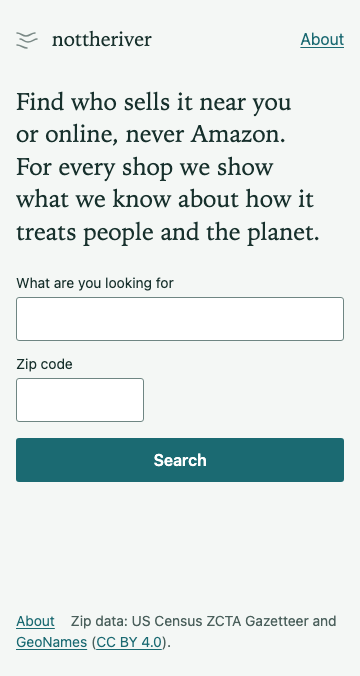
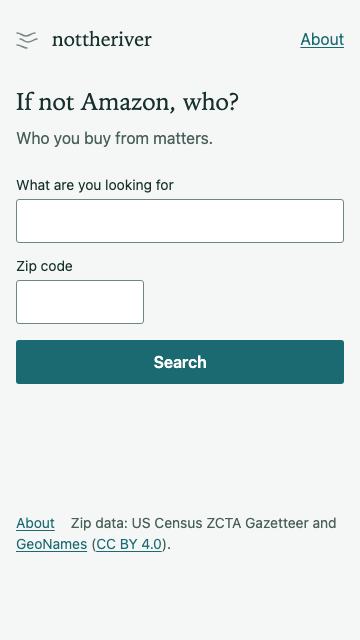
feat(site): change the headline to "If not Amazon, who?" with a short line under it
The headline on the search page and the About page is now "If not Amazon,
who?". On the search page a line under it reads "Who you buy from
matters." and is hidden with the headline once a search starts.

The pair replaces the 2026-11-15 sentence. Before a search the page says
nothing about people and the planet; each result still carries its "People
and planet" line.

docs/evidence/landing.png, landing-360.png and about.png are regenerated.

Claude-Session: https://claude.ai/code/session_01CkQcP2ZUvVN6X4vgfbAERQ

diff --git a/tests/e2e/smoke.spec.ts b/tests/e2e/smoke.spec.ts
@@ -42,6 +42,7 @@ test('a search renders ranked, explained, Amazon-free results under the CSP', as
   await page.goto('/');
   await expect(page.locator('meta[name=referrer][content=no-referrer]')).toHaveCount(1);
   await expect(page.locator('meta[http-equiv=Content-Security-Policy]')).toHaveAttribute('content', /form-action 'none'/);
+  await expect(page.locator('.mission-note')).toBeVisible();
 
   await page.getByLabel('What are you looking for').fill('cast iron skillet');
   await page.getByLabel('Zip code').fill(ZIP);
@@ -62,6 +63,8 @@ test('a search renders ranked, explained, Amazon-free results under the CSP', as
 
   // Once a search starts the headline is clipped to a pixel, so the results get its room.
   expect((await box(page.locator('[data-mission]'))).height).toBeLessThanOrEqual(1);
+  // The line under the headline goes with it.
+  await expect(page.locator('.mission-note')).toBeHidden();
   // The found count leads to the Online section.
   await expect(page.locator('[data-found] a')).toHaveAttribute('href', '#online-heading');
   // The count sits at the top of the results: under the sort and filter row, above the lists.

diff --git a/src/styles.css b/src/styles.css
@@ -98,13 +98,16 @@ a:not([href]) { color: inherit; text-decoration: none; } /* doc names stay plain
   font-weight: 400;
   font-size: var(--text-xl);
   line-height: var(--leading-display);
-  margin: var(--space-6) 0 var(--space-5);
+  margin: var(--space-6) 0 var(--space-2);
   text-wrap: balance;
 }
 @media (min-width: 48rem) { .mission { font-size: var(--text-2xl); } }
+/* Set like the note under a section heading. */
+.mission-note { color: var(--ink-muted); margin: 0 0 var(--space-5); text-wrap: balance; }
 /* Once a search starts the headline gives its room to the results. It is clipped, not removed:
    it is the page's only h1. */
 .searched .mission { position: absolute; width: 1px; height: 1px; margin: 0; overflow: hidden; clip-path: inset(50%); white-space: nowrap; }
+.searched .mission-note { display: none; }
 .searched .search { margin-top: var(--space-5); }
 
 .search { display: grid; gap: var(--space-3); }

diff --git a/src/main.test.ts b/src/main.test.ts
@@ -93,6 +93,10 @@ describe('search page', () => {
     for (const a of document.querySelectorAll('a[href]')) expect(a.getAttribute('href')!.startsWith('/')).toBe(false);
   });
 
+  it('gives the reason to search in a line under the headline', () => {
+    expect($('[data-mission] + .mission-note').textContent).toBe('Who you buy from matters.');
+  });
+
   it('never puts the zip in the URL, storage, or the request (HR3)', async () => {
     const zip = '60614';
     const event = submit('cast iron skillet', zip);

diff --git a/about.html b/about.html
@@ -22,7 +22,7 @@
 </header>
 
 <main class="page prose">
-<h1>Find who sells it near you or online, never Amazon. For every shop we show what we know about how it treats people and the planet.</h1>
+<h1>If not Amazon, who?</h1>
 <p>Type a product and a US zip code. You get shops near you and online retailers that sell it or something close, each ranked with its reasons shown. There are no accounts, cookies, or analytics.</p>
 
 <h2 id="amazon">Why Amazon never appears</h2>

diff --git a/index.html b/index.html
@@ -22,7 +22,8 @@
 </header>
 
 <main class="page">
-<h1 class="mission" data-mission>Find who sells it near you or online, never Amazon. For every shop we show what we know about how it treats people and the planet.</h1>
+<h1 class="mission" data-mission>If not Amazon, who?</h1>
+<p class="mission-note">Who you buy from matters.</p>
 
 <form id="search" class="search" method="post" action="#" novalidate>
 <div class="field field-product">

diff --git a/src/config.ts b/src/config.ts
@@ -3,8 +3,7 @@
 
 export const siteName = 'nottheriver';
 
-export const tagline =
-  'Find who sells it near you or online, never Amazon. For every shop we show what we know about how it treats people and the planet.';
+export const tagline = 'If not Amazon, who?';
 
 // Operator-entered, so a trailing slash must not turn /search into //search.
 export const workerUrl: string = (import.meta.env.VITE_WORKER_URL ?? '').replace(/\/+$/, '');

diff --git a/docs/STATUS.md b/docs/STATUS.md
@@ -43,7 +43,7 @@ As of 2026-10-01. Pushed to `main`; the Worker is deployed at `e573572` with the
 | Wireframes from a blank page (2026-11-11) | [wireframes/](wireframes/README.md): three low-fidelity designs by agents that never saw the current site, working only from [wireframes/inventory.md](wireframes/inventory.md) (needs, information, functions and rules, no screens; passed three leak checks). WF1 orders the visit as a sequence of six steps, WF2 hangs everything on a drawing of the visitor's area, WF3 presents the answer as sourced statements. Each has a `wireframe.html` at 360 px and 1280 px, the designer's reasons, a coverage table and an independent check with one fix round (24, 21 and 17 gaps found; 22, 21 and 13 fixed or addressed, the rest in part). Not rendered in a browser; fixes not checked a second time. Documentation only: nothing in `src/` changed |
 | Ethics as a data problem (2026-11-11) | [ethics-data-strategies.md](ethics-data-strategies.md): the operator's answer to the headline rewrite (VQ3) was to keep ethics in the product and treat the gap as a data problem. Eight agents (five Sonnet, one Opus, two Fable) read the operator's eight starting points, hunted datasets and brainstormed blind to each other; a fresh review raised 27 findings, all applied. Measured on saved searches ([evidence/ethics-data/shop-domains.tsv](evidence/ethics-data/shop-domains.tsv)): 235 of 2,182 results (11%) are off the default scores, 166 of them from findings on three chains and 69 from certifications on five websites. Likely finding: data exists for national chains (grades need the publisher's permission, federal records need upkeep), partly for brands, and not yet for small local shops. 13 strategies (ES1 to ES12, with ES11 in two parts), a four-step sequence starting with an explicit "not checked" line on every shop, six headline wordings that keep ethics in the line. Nothing built; every hour figure is an estimate; reuse terms were read through a summarizing tool and need the operator's check |
 | Blocked pages read (2026-11-15) | The 58 pages the ethics report could not read, tried again within the operator's limits (crawler rules followed, no stealth tool, proxy, CAPTCHA solving or login). By the lead agent's count about 13 questions are answered and about 16 partly; 13 are not answerable today, 6 were terms questions skipped under the data stance ruling, 4 are held unread, 6 are gone, behind a login or unmeasured. Results are in the last column of [section 10](ethics-data-strategies.md#10-pages-the-owner-needs-to-open) and in [evidence/ethics-data/blocked-pages/](evidence/ethics-data/blocked-pages/README.md). Useful to the build: look-up links that carry a shop's name work on Violation Tracker, Good On You, Good Shopping Guide and B Corp (one or two names tested each); Alter Eco and Lake Champlain Chocolates are B Corps; Form 5500 codes mark companies with an employee stock ownership plan; GreenChill certifies single stores (Target 78, Costco 5 among the most-seen shops). New script: `research/fetch-page.mjs`. Each answer rests on one fetch; two departures from the limits are recorded in the evidence README |
-| Record line and headline (2026-11-15) | Step 1 of the ethics sequence, in part (ES1 in [ethics-data-strategies.md](ethics-data-strategies.md#5-strategies)). A result with no scoring certification and no finding shows "People and planet: unknown" (a chain badge or a membership badge that never scores does not count); a line under the weights says how many shown results have a record and what unknown means; "Why this rank" says "Unknown" where it said "Nothing found"; `about.html` says what unknown means. The headline on both pages is now "Find who sells it near you or online, never Amazon. For every shop we show what we know about how it treats people and the planet." Checks: 896 unit tests, lint and typecheck, and the 3 end-to-end tests (run locally with a cached Chromium build, not the pinned one). In the newest saved searches about 87% of results hold no certification or finding, so most rows read "unknown". Not built: the look-up links (ES3), which wait on the owner trying each link pattern on 20 shops |
+| Record line and headline (2026-11-15) | Step 1 of the ethics sequence, in part (ES1 in [ethics-data-strategies.md](ethics-data-strategies.md#5-strategies)). A result with no scoring certification and no finding shows "People and planet: unknown" (a chain badge or a membership badge that never scores does not count); a line under the weights says how many shown results have a record and what unknown means; "Why this rank" says "Unknown" where it said "Nothing found"; `about.html` says what unknown means. The headline on both pages became "Find who sells it near you or online, never Amazon. For every shop we show what we know about how it treats people and the planet." It was replaced on 2026-11-17 (under "Decisions made by the operator"). Checks: 896 unit tests, lint and typecheck, and the 3 end-to-end tests (run locally with a cached Chromium build, not the pinned one). In the newest saved searches about 87% of results hold no certification or finding, so most rows read "unknown". Not built: the look-up links (ES3), which wait on the owner trying each link pattern on 20 shops |
 | Path forward (2026-11-15) | [path-forward.md](path-forward.md): one recommended path from a Fable agent that read the repo and made no web requests. Become a record book of the companies seen most, with product search as one way into it; first step a fixed public-record check on the ten most-seen chains (395 of 2,182 saved results). The lead checked eleven citations and five figures and corrected one (8 websites, not 37, hold a certification or finding); the figures left unchecked are listed at the top of the file. The operator ruled yes on OD1 and OD3 |
 | Goals (2026-11-15) | [goals.md](goals.md): the vision, four goals with their checks, and the order of work with the goal each item serves. The Priorities table moved there. The operator gave the vision and two goals and answered four questions; goals G3 and G4 and five work items are an agent's inferences, marked as such |
 | Crawler rules and two pages read again (2026-11-15) | `research/fetch-page.mjs` follows only a site's general crawler rules (operator ruling). The IndieBound store finder and the bike-dealer directory (NBDA) were then read once each: the first is a search form that lists nothing until a search is sent, the second is a public member list that mixes suppliers with shops ([ethics-data-strategies.md](ethics-data-strategies.md#10-pages-the-owner-needs-to-open), row for IndieBound) |
@@ -124,6 +124,7 @@ Effect on the ethics sequence: step 1 is the record line on every shop (ES1) and
 - Reading pages for research (2026-11-15): agents may read Wayback Machine copies of pages that refuse automated readers and use `research/fetch-page.mjs` (robots.txt checked before every request, true client name, no retry past a challenge page). The same day the operator approved one attended session in their own Chrome for six named walled pages (Violation Tracker, B Corp, the New York wage theft dashboard); any other page needs a new yes. Paid unblocking services, false client names and CAPTCHA solving stay out.
 - Crawler rules that name an assistant (2026-11-15): asked whether `research/fetch-page.mjs` should keep obeying robots.txt groups written for Anthropic's assistants (`Claude-User`, `Claude-Web`, `anthropic-ai`) or only the general group, the operator said "follow the rule that is more permissive". Built as: the script obeys the general `*` group only; its requests carry Node's own client name, which no site names. On the 50 saved crawler-rule files this changes 4 verdicts, on the three sites that name an assistant: B Corp (still behind a challenge page for a script), IndieBound and the bike-dealer directory (NBDA). None was read again. Flagged by the agent: those sites wrote the rule to keep AI assistants out, and an agent runs this script. A site whose assistant group is more open than its general group gets the general group.
 - Words for a shop with no record (ED2 in [ethics-data-strategies.md](ethics-data-strategies.md#9-decisions-for-the-owner), 2026-11-15): "unknown", not the report's "not checked". In the operator's words: "i prefer 'unknown' because we might be blocked from checking or have literally not checked yet." The record line on every shop (ES1) is to be built with it.
+- Headline (2026-11-17): "If not Amazon, who?", on the search page and the About page. The operator asked for something shorter than the 2026-11-15 wording below and picked this from 20 candidates written by two models. Under it on the search page, until a search starts, is a line the operator chose from five the agent wrote: "Who you buy from matters." The two replace that wording, so the search page says nothing about people and the planet before a search; each result still carries its "People and planet" line and the About page still explains the scores. This ends the part of the 2026-11-11 ruling below (VQ3) that kept ethics in the headline; ethics stays in the product. Built and pushed on 2026-11-17.
 - Headline (ED1 in [ethics-data-strategies.md](ethics-data-strategies.md#8-headline-wording), 2026-11-15): the report's HW2 without its last clause, to go live with the record line: "Find who sells it near you or online, never Amazon. For every shop we show what we know about how it treats people and the planet." The operator dropped ", and say so when it is unknown" as "an obvious ai tell phrase". This supersedes the "not now" below.
 - Path forward (2026-11-15, [path-forward.md](path-forward.md)): the operator asked a Fable agent for one recommended path ("simplicity is paramount", "nothing is locked in", "an ambitious goal that is hard to achieve should not be a reason to abandon the effort"). To the lead's action "Rule on OD1 and OD3", offered with yes recommended on both, the operator answered "do 1 to 4"; the lead reads that as yes to both. OD1: the record book pilot (ST1) replaces Amazon plan Phases B to D at the top of Priorities, which reverses the order approved on 2026-09-27. OD3: the scaling, wireframe and remaining review decisions are shelved (see "Shelved"). OD2 (take ethics and environment out of the default order) is not ruled.
 - Goals (2026-11-15, [goals.md](goals.md)): the operator set the vision ("public resource that makes it easier to shop on smaller and more ethical companies that are nearby"; "while 'quit amazon prime' would not be incorrect, the site hopes to be broader than that"; "the repo is a proof of concept moving toward an announcement to friends") and two goals ("validate the site can collect and aggregate enough information to be useful to shoppers"; "searches feel responsive (~2 seconds?)"). Asked four questions, the operator answered: a company's record comes first and its size second; "The 'announcement' is not an event as much as a weather vane. that's the type and size of project it is."; the speed goal is first results within about 2 seconds, with the full list allowed longer; and all four offered checks count toward the first goal (the ten-purchase log, records that tell like companies apart, half of results carrying a checked fact, a nearby list that is mostly right).
